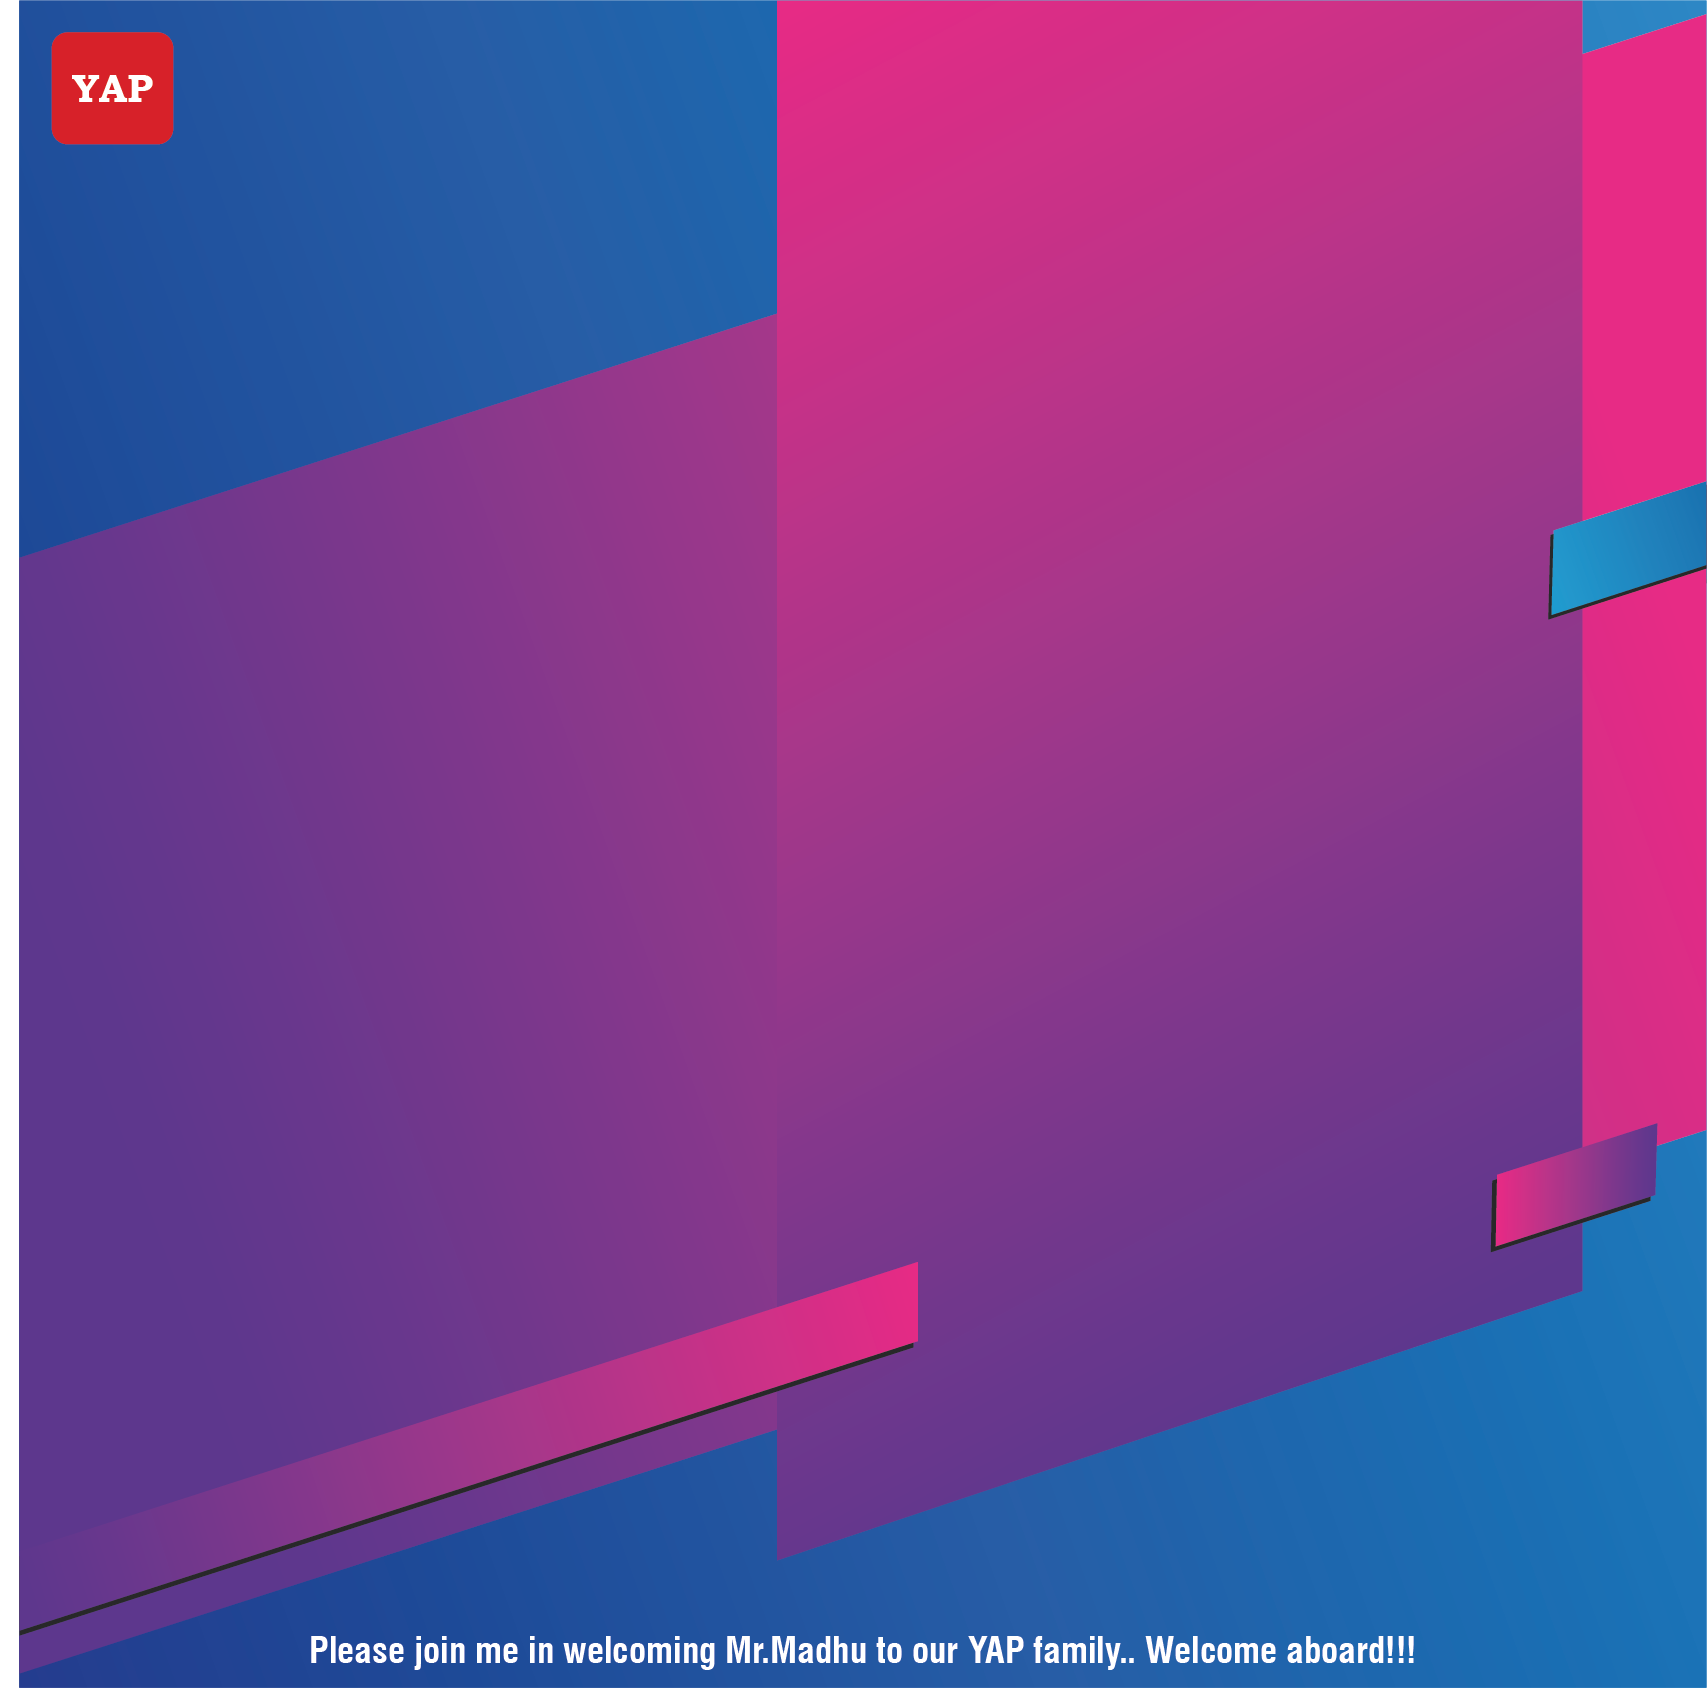
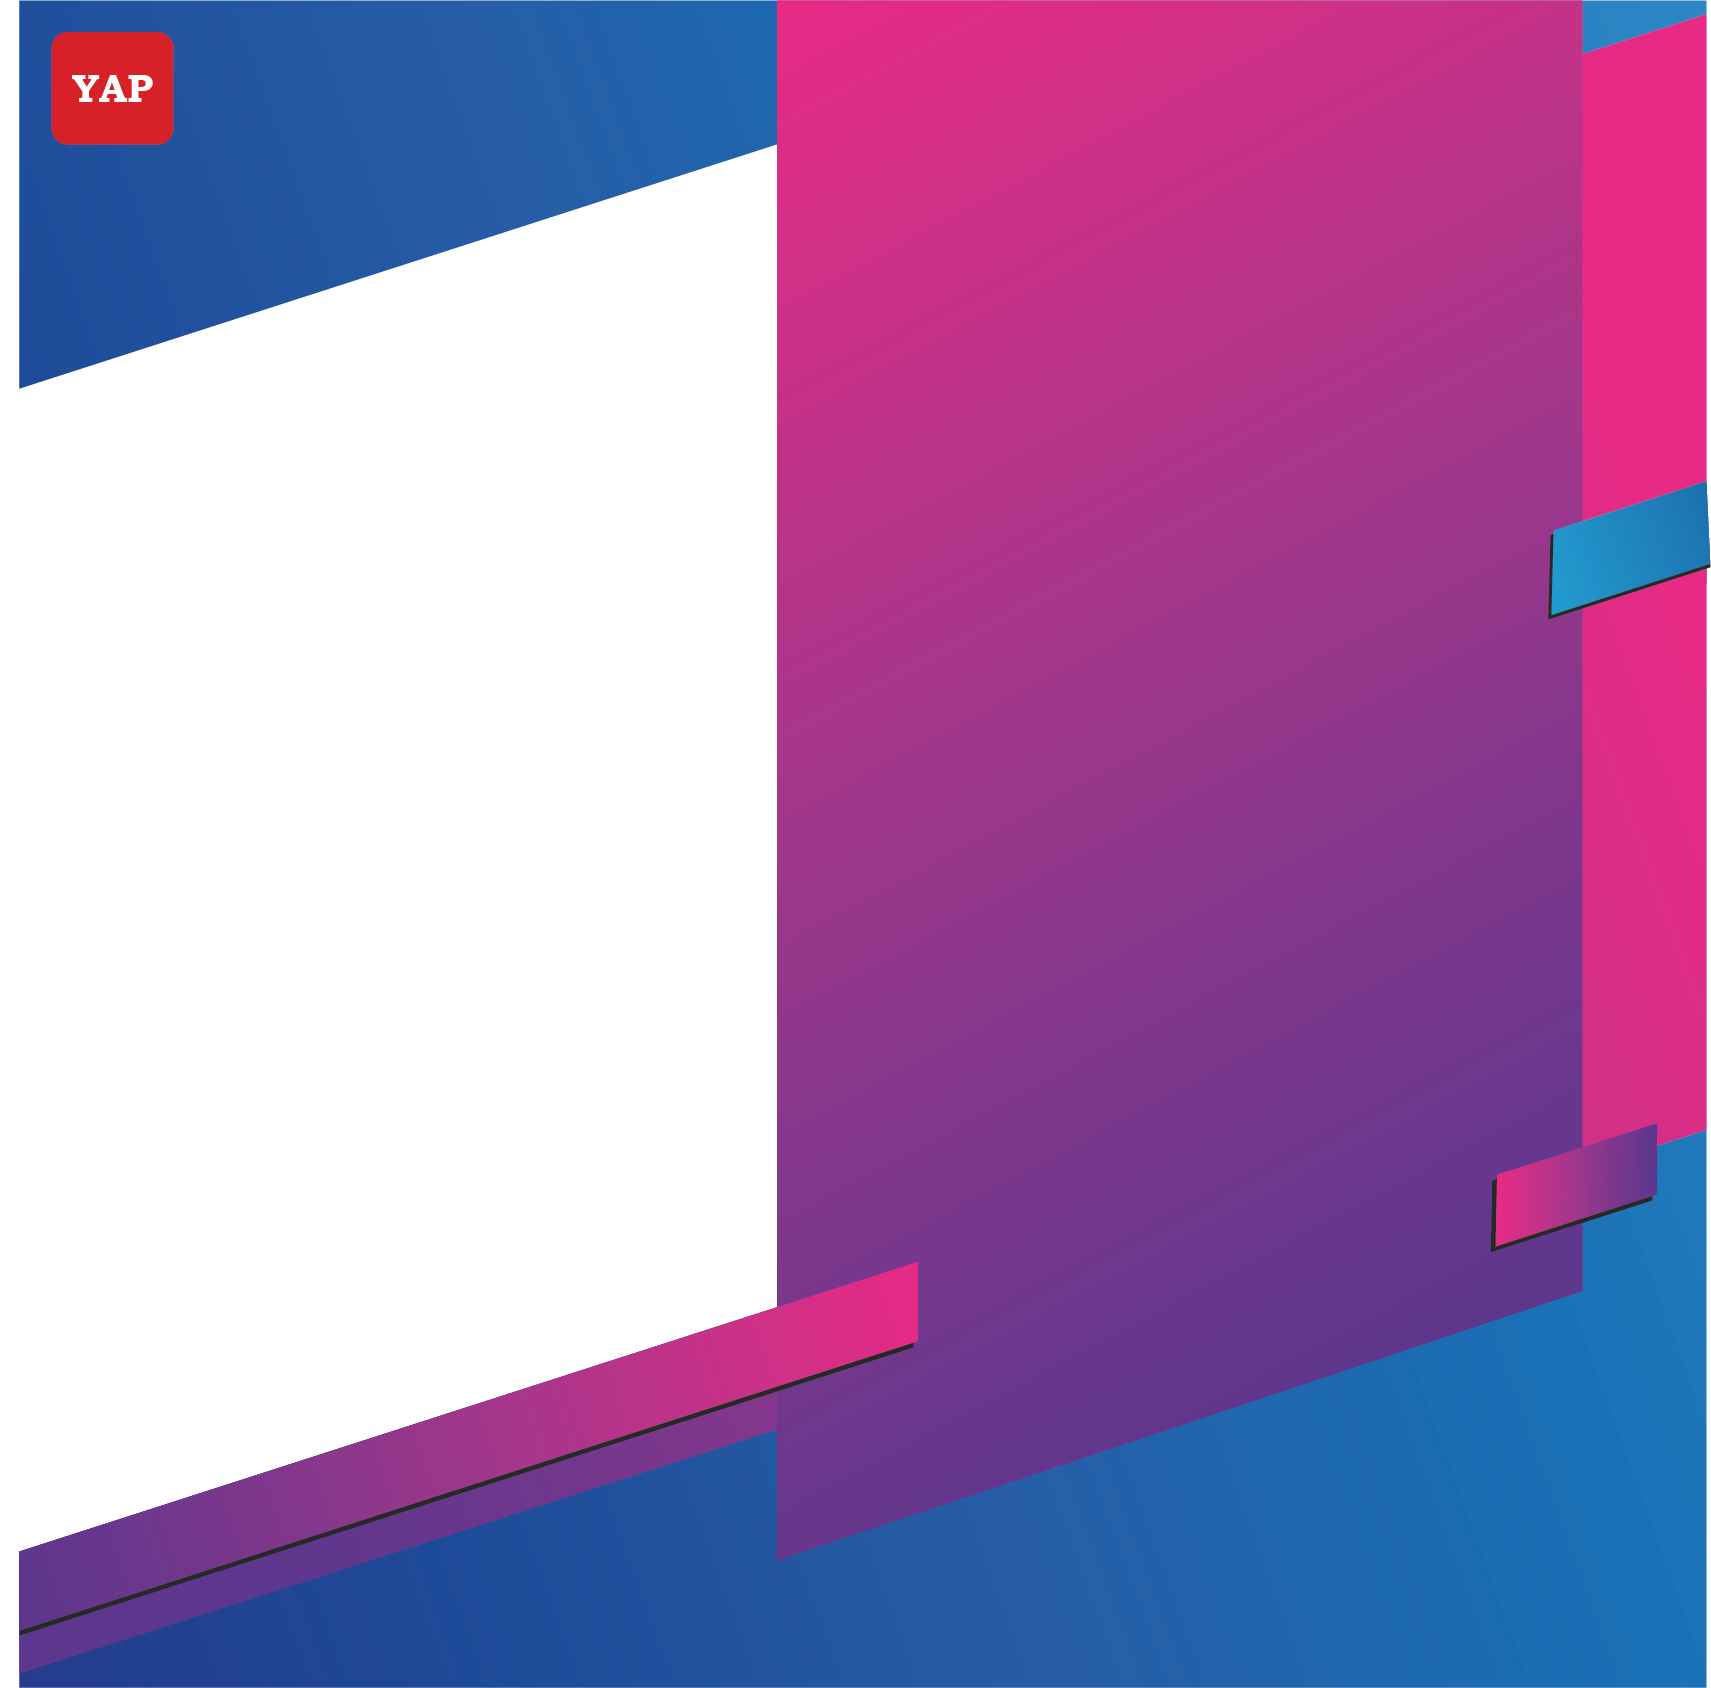
Second Update

diff --git a/welcome.js b/welcome.js
@@ -1,7 +1,10 @@
 
-    window.alert("1. Choose your image\n2. Drag and Drop the Employee's photo to exact output\n3. Click fix button"+
-    "\n4. If you want to adjust again click refix button\n5. Edit all texts in the right area & click submit\n6.Click Preview button\n7. Then download" );
+    window.alert("1. Edit texts in the text area & click submit\n2. Choose your image\n3. Drag and Drop the Employee's photo to exact output"+
+    "\n4. Click fix button\n5. If you want to adjust again click adjust button \n6. Once you satisfied with the look then download\n\n"
+    + "***Note: In the uploading image, the space between employee's head and top edge of the image must be atlease 18mm same like below default image" );
 
+
+   
 /*Image conversion & download
 
     $(document).ready(function(){
@@ -50,6 +53,25 @@ if (action==1){
   }
 
 if (action==2){
+    const original = document.querySelector('#container')
+    const canvasContainer = document.querySelector('#previewImage')
+  
+  html2canvas(original, {
+     scale: 2,
+     useCORS: true,
+   }).then(canvas => {
+    canvasContainer.appendChild(canvas);
+    canvas.setAttribute("id","canva");
+    canva=document.querySelector("#canva");
+  const a=document.createElement("a");
+          document.body.appendChild(a);
+          a.href=canva.toDataURL();
+          a.download="Welcome" + "_" + EmpName.textContent +".png";
+          a.click();
+          document.body.removeChild(a);
+          action=2;
+          console.log(action);
+  })
     var item = document.getElementById("canva");
     item.parentNode.removeChild(item);
     action=1;
@@ -124,9 +146,10 @@ document.body.style.backgroundPosition = "center top";*/
 
 function view(){
 document.getElementById("layer1").style.zIndex = "1";
+document.getElementById("layer2").style.zIndex = "";
 }
 function refix(){
-document.getElementById("layer1").style.zIndex = "";
+document.getElementById("layer2").style.zIndex = "6";
 }
 function myFunction1() {
 var para1 = document.getElementById("welcome").value;

diff --git a/index.html b/index.html
@@ -10,7 +10,7 @@
 <script src="html2canvas.js"></script>
 <script src='https://kit.fontawesome.com/a076d05399.js'></script>
 <script src="https://code.iconify.design/1/1.0.7/iconify.min.js"></script>
-
+<title>Welcoming Employee</title>
 <style>
  
 </style>
@@ -63,7 +63,7 @@
 
 
 <!--Bg img drag-->
-<div class="bg-img" id="layer2" title="Drag & Drop to adjust employee's photo"></div>
+<div class="bg-img" id="layer2" title="Drag to adjust employee's photo"></div>
 <p>
     <input type="" id="data"/>
 </p>
@@ -83,10 +83,9 @@
     <p id=p1>Welcome</p>
     <p id="p2">Mr. Madhu</p>
     <p id=p3>CEO</p>
-    <p id=p4 style="text-align: justify;">He holds 10 plus years of experience with organizations like Paytm, Snapdeal and 
-        expedia graduated with bachelors Degree in Digital comm/multimedia From Bihar-Bengusarai(This place has an influence of Kolkata) 
-        lives with his parents and sibling He is an avid player of Volleyball and Cricket apart from sports he loves to explore 
-        new places for breakfast & brunch </p>
+    <p id=p4 style="text-align: justify;">Lorem ipsum dolor sit amet, consectetur adipiscing elit, sed do eiusmod tempor incididunt ut labore et dolore magna aliqua. 
+        Ut enim ad minim veniam, quis nostrud exercitation ullamco laboris nisi ut aliquip ex ea commodo consequat. Duis aute irure dolor in reprehenderit in voluptate 
+        velit esse cillum dolore eu fugiat nulla pariatur. Excepteur sint occaecat cupidatat non proident, sunt in culpa qui </p>
     <p id=p5>madhu@m2p.in</p>
     <p id=p6>09876543210</p>
     <p id=p7>Please join me in welcoming Madhu to our YAP family. Welcome aboard!!!
@@ -189,7 +188,7 @@
 
 
 
-
+    
 <script>
     
 </script>

diff --git a/welcome.css b/welcome.css
@@ -5,8 +5,9 @@
 background-color: #F8F8F8;
 height: 12mm;
 width: 195.5mm;
+margin-left: auto;
+margin: auto;
 display: flex;
-left: 21%;
 align-items: center;
 border-radius: 6px;
 }
@@ -209,7 +210,7 @@ border-radius: 30px;
 
  div.bg-img {
      position: relative;
- background-image: url("img/BG_1_1.png");
+ background-image: url("img/madhu.jpg");
  background-position: 0 0;
  background-repeat: no-repeat;
  top:-111.5mm;
@@ -219,6 +220,7 @@ border-radius: 30px;
  }
 
  #layer2{
+     z-index: 0;
     width: 54mm;
     height: 111mm;
     cursor: grab;
@@ -768,7 +770,7 @@ float: right;
 
 
  #previewImage{
-
+    visibility: hidden;
      position: relative;
      top:10mm;
      left: -1.35mm;
